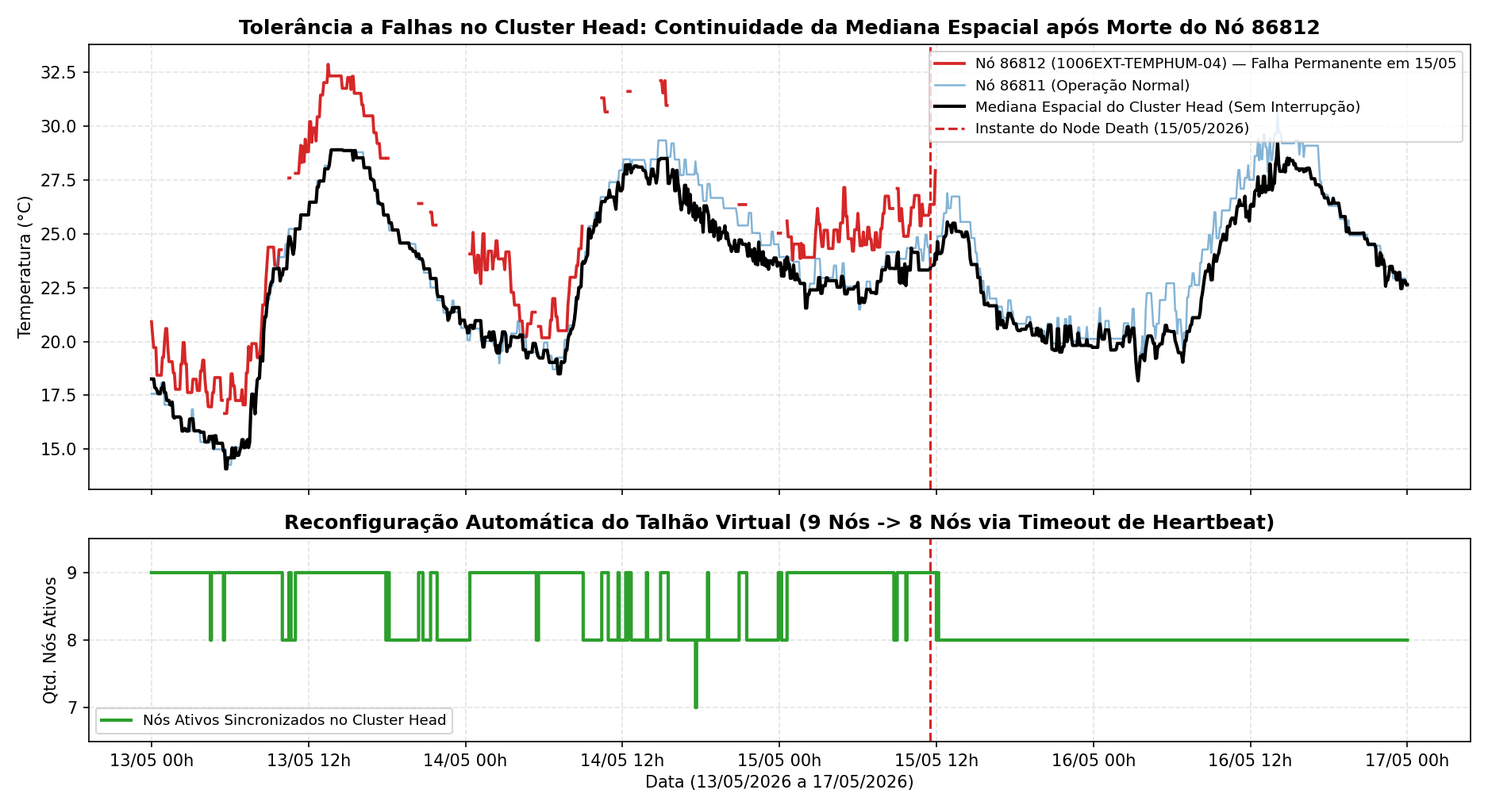
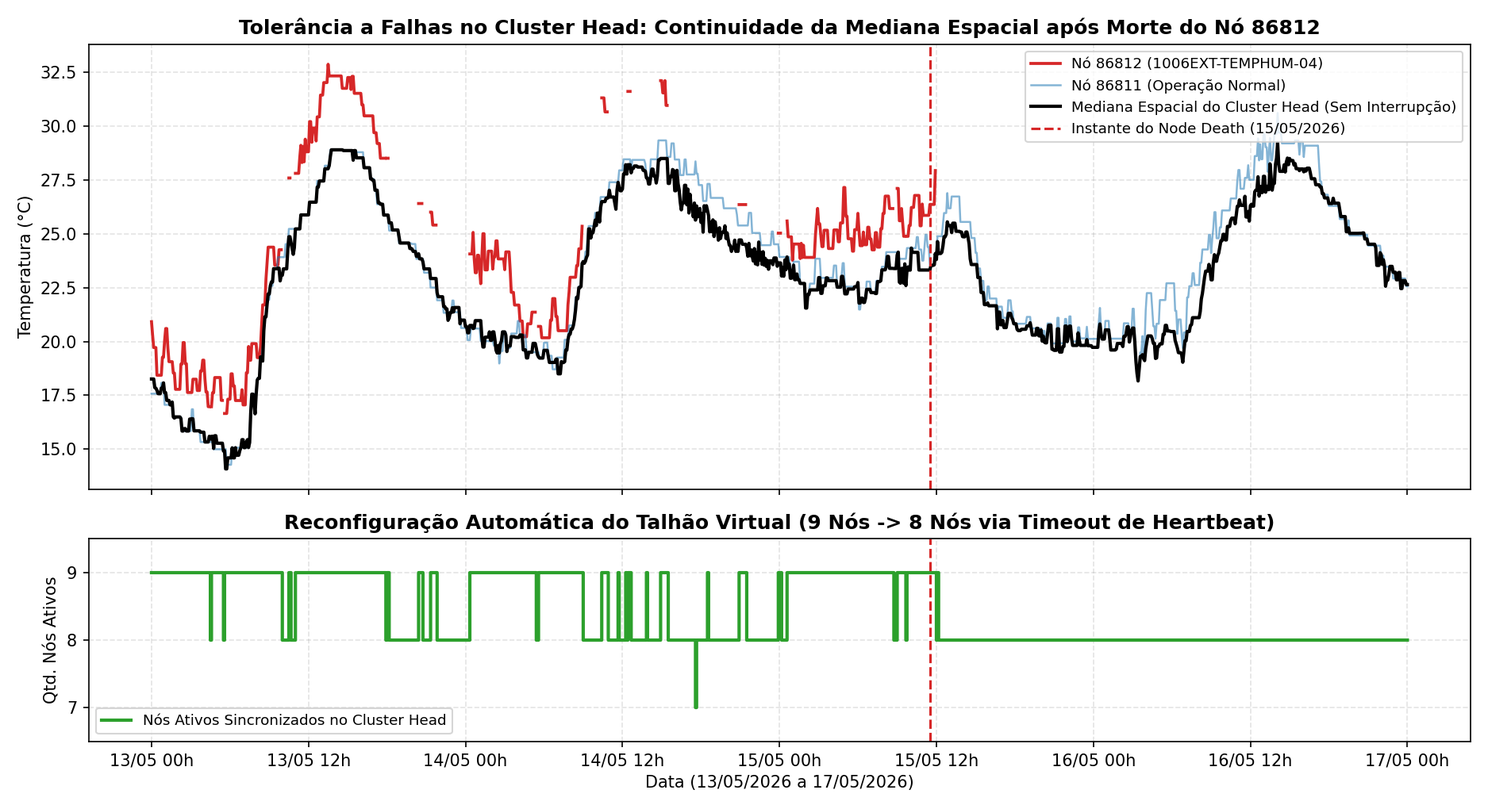
Conclui entregavel E4: latencia de alerta por fase, calibracao estatistica de tau_espacial com subclusters e relatorio tecnico

Changed region(s): [[0.6187, 0.0608, 0.9899, 0.1824]]

diff --git a/E4/cluster_head_espacial.py b/E4/cluster_head_espacial.py
@@ -141,8 +141,9 @@ def calibrar_tau_espacial_abril():
     ax1.plot(ts, sub_temp[no_pico], color="#d62728", linewidth=1.6, linestyle="--", label=f"Nó Discrepante no Pico ({no_pico})")
     ax1.set_title("Coorte 1 (Externo_Cluster - 9 Nós): Leituras Individuais vs. Mediana Espacial M_t (10/04 a 17/04/2026)", fontweight="bold")
     ax1.set_ylabel("Temperatura (°C)")
+    ax1.set_ylim(17.0, 41.5)
     ax1.grid(True, linestyle="--", alpha=0.35)
-    ax1.legend(loc="upper right", ncol=3, fontsize=8.5, frameon=True)
+    ax1.legend(loc="upper right", ncol=3, fontsize=8.0, frameon=True)
 
     ax2.plot(ts, delta_max_t, color="#1f77b4", linewidth=1.5, label="Desvio Espacial Máximo Instantâneo (Δ_max = max |v_i - M_t|)")
     ax2.axhline(1.0, color="#7f7f7f", linestyle=":", linewidth=1.2, label="Limiar Ingênuo (τ = 1.0°C -> Falso Alarme Constante)")
@@ -150,20 +151,12 @@ def calibrar_tau_espacial_abril():
     mask_alerta = delta_max_t > tau_escolhido
     ax2.scatter(ts[mask_alerta], delta_max_t[mask_alerta], color="#d62728", s=22, zorder=5,
                 label=f"Anomalia Local Detectada (Δ_max > {tau_escolhido}°C: {np.mean(mask_alerta)*100:.1f}% do tempo)")
-    ax2.annotate(
-        f"Pico de Divergência: {delta_max_t[idx_pico]:.2f}°C\n({ts.iloc[idx_pico].strftime('%d/%m %H:%M')} - {no_pico})",
-        xy=(ts.iloc[idx_pico], delta_max_t[idx_pico]),
-        xytext=(ts.iloc[idx_pico] - pd.Timedelta(days=2.2), delta_max_t[idx_pico] - 0.6),
-        arrowprops=dict(arrowstyle="->", color="#d62728", lw=1.4),
-        fontsize=9,
-        fontweight="bold",
-        color="#d62728",
-    )
     ax2.set_title(f"Calibração de τ_espacial = {tau_escolhido}°C: Absorção do Microclima Basal (3–4°C) e Detecção do Evento de 13/04", fontweight="bold")
     ax2.set_ylabel("Δ_max Espacial (°C)")
     ax2.set_xlabel("Data (10/04/2026 a 17/04/2026)")
+    ax2.set_ylim(0.5, 8.8)
     ax2.grid(True, linestyle="--", alpha=0.35)
-    ax2.legend(loc="upper left", fontsize=8.5, frameon=True)
+    ax2.legend(loc="upper left", fontsize=8.0, frameon=True)
     ax2.xaxis.set_major_formatter(mdates.DateFormatter("%d/%m %Hh"))
 
     fig.tight_layout()
@@ -251,7 +244,7 @@ def simular_acoplamento_temporal_espacial_200d():
     mediana_sub = sub_m.median(axis=1)
 
     fig, (ax_top, ax_bot) = plt.subplots(2, 1, figsize=(12.5, 6.8), sharex=True, dpi=150, gridspec_kw={"height_ratios": [2.2, 1]})
-    ax_top.plot(sub_m.index, sub_m["1006EXT-TEMPHUM-04"], color="#d62728", linewidth=1.8, label="Nó 86812 (1006EXT-TEMPHUM-04) — Falha Permanente em 15/05")
+    ax_top.plot(sub_m.index, sub_m["1006EXT-TEMPHUM-04"], color="#d62728", linewidth=1.8, label="Nó 86812 (1006EXT-TEMPHUM-04)")
     ax_top.plot(sub_m.index, sub_m["1006EXT-TEMPHUM-03"], color="#1f77b4", alpha=0.55, linewidth=1.2, label="Nó 86811 (Operação Normal)")
     ax_top.plot(sub_m.index, mediana_sub, color="black", linewidth=2.0, label="Mediana Espacial do Cluster Head (Sem Interrupção)")
     t_morte = pd.to_datetime("2026-05-15T11:30:00")
@@ -279,13 +272,102 @@ def simular_acoplamento_temporal_espacial_200d():
     return df_200d
 
 
+def avaliar_divisao_subclusters_1006_1008():
+    """
+    Avalia o efeito de dividir o Cluster Único (9 nós) em 2 Sub-Clusters por fachada/talhão:
+    - Sub-Cluster A (1006EXT - 4 nós: 86809, 86811, 86812, 86813)
+    - Sub-Cluster B (1008EXT - 5 nós: 86814, 86784, 86785, 86783, 46)
+    Verifica se a redução da heterogeneidade espacial permite reduzir τ_espacial (ex: de 4.5°C para 3.5°C).
+    """
+    df_wide = pd.read_csv(WIDE_CSV_PATH)
+    df_wide["timestamp"] = pd.to_datetime(df_wide["timestamp"])
+
+    c_1006 = ["1006EXT-TEMPHUM-01", "1006EXT-TEMPHUM-03", "1006EXT-TEMPHUM-04", "1006EXT-TEMPHUM-05"]
+    c_1008 = ["1008EXT-TEMPHUM-01", "1008EXT-TEMPHUM-03", "1008EXT-TEMPHUM-04", "1008EXT-TEMPHUM-05", "1008EXT-TEMPHUM-06"]
+    c_all = c_1006 + c_1008
+
+    t_ini, t_fim = pd.to_datetime("2026-04-10T00:00:00"), pd.to_datetime("2026-04-17T23:59:59")
+    sub = df_wide[(df_wide["sensor"] == "temperatura") & (df_wide["timestamp"] >= t_ini) & (df_wide["timestamp"] <= t_fim)].copy()
+    sub = sub.sort_values("timestamp").reset_index(drop=True)
+    ts = sub["timestamp"]
+
+    grupos = [
+        ("Cluster Único (9 nós: 1006EXT + 1008EXT)", c_all),
+        ("Sub-Cluster A: 1006EXT (4 nós)", c_1006),
+        ("Sub-Cluster B: 1008EXT (5 nós)", c_1008),
+    ]
+
+    rows_comp = []
+    dmax_series = {}
+    for nome_g, cols in grupos:
+        v = sub[cols].values
+        med = np.nanmedian(v, axis=1)
+        dmax = np.nanmax(np.abs(v - med[:, None]), axis=1)
+        dmax_series[nome_g] = dmax
+
+        for tau in [2.0, 2.5, 3.0, 3.5, 4.0, 4.5]:
+            pct_mediana = float(np.mean(dmax <= tau) * 100.0)
+            rows_comp.append({
+                "Agrupamento": nome_g,
+                "Tau_Espacial_C": tau,
+                "DeltaMax_Medio_C": round(float(np.nanmean(dmax)), 2),
+                "DeltaMax_P90_C": round(float(np.nanpercentile(dmax, 90)), 2),
+                "DeltaMax_Pico_C": round(float(np.nanmax(dmax)), 2),
+                "Pct_Tempo_Apenas_Mediana": round(pct_mediana, 2),
+                "Pct_Tempo_Anomalia": round(100.0 - pct_mediana, 2),
+            })
+
+    df_comp = pd.DataFrame(rows_comp)
+    df_comp.to_csv(OUT_DIR / "tabela_comparacao_1cluster_vs_2subclusters_abril.csv", index=False)
+
+    # Figura comparativa do Δ_max entre Cluster Único (9 nós) vs 2 Sub-Clusters (1006EXT e 1008EXT)
+    fig, (ax1, ax2) = plt.subplots(2, 1, figsize=(13, 7.8), sharex=True, dpi=150)
+
+    d_all = dmax_series["Cluster Único (9 nós: 1006EXT + 1008EXT)"]
+    d_1006 = dmax_series["Sub-Cluster A: 1006EXT (4 nós)"]
+    d_1008 = dmax_series["Sub-Cluster B: 1008EXT (5 nós)"]
+
+    ax1.plot(ts, d_all, color="#7f7f7f", alpha=0.55, linewidth=1.2, label="Δ_max Cluster Único (9 nós) — Média: 3,27°C")
+    ax1.plot(ts, d_1006, color="#1f77b4", linewidth=1.4, label="Δ_max Sub-Cluster A: 1006EXT (4 nós) — Média: 2,56°C")
+    ax1.axhline(4.5, color="#7f7f7f", linestyle=":", linewidth=1.4, label="τ_espacial Cluster Único = 4,5°C (94,7% normal)")
+    ax1.axhline(3.5, color="#d62728", linestyle="--", linewidth=1.6, label="τ_espacial Sub-Cluster = 3,5°C (87,4% normal + Pico 13/04)")
+    ax1.set_title("Sub-Cluster A (1006EXT - 4 Nós) vs. Cluster Único (9 Nós): Queda do Desvio Basal em ~0,75°C", fontweight="bold")
+    ax1.set_ylabel("Δ_max Espacial (°C)")
+    ax1.set_ylim(0.5, 9.8)
+    ax1.grid(True, linestyle="--", alpha=0.35)
+    ax1.legend(loc="upper left", ncol=2, fontsize=8.2, frameon=True)
+
+    ax2.plot(ts, d_all, color="#7f7f7f", alpha=0.55, linewidth=1.2, label="Δ_max Cluster Único (9 nós) — Média: 3,27°C")
+    ax2.plot(ts, d_1008, color="#2ca02c", linewidth=1.4, label="Δ_max Sub-Cluster B: 1008EXT (5 nós) — Média: 2,49°C")
+    ax2.axhline(4.5, color="#7f7f7f", linestyle=":", linewidth=1.4, label="τ_espacial Cluster Único = 4,5°C")
+    ax2.axhline(3.5, color="#d62728", linestyle="--", linewidth=1.6, label="τ_espacial Sub-Cluster = 3,5°C (91,7% normal)")
+    ax2.set_title("Sub-Cluster B (1008EXT - 5 Nós) vs. Cluster Único (9 Nós): Operação Estável com τ_espacial = 3,5°C", fontweight="bold")
+    ax2.set_ylabel("Δ_max Espacial (°C)")
+    ax2.set_xlabel("Data (10/04/2026 a 17/04/2026)")
+    ax2.set_ylim(0.5, 9.8)
+    ax2.grid(True, linestyle="--", alpha=0.35)
+    ax2.legend(loc="upper left", ncol=2, fontsize=8.2, frameon=True)
+    ax2.xaxis.set_major_formatter(mdates.DateFormatter("%d/%m %Hh"))
+
+    fig.tight_layout()
+    fig.savefig(OUT_DIR / "comparacao_1cluster_vs_2subclusters_tau.png")
+    plt.close(fig)
+
+    return df_comp
+
+
 def main():
     print("1. Calibrando τ_espacial na janela de 10/04 a 17/04/2026...")
     df_tau = calibrar_tau_espacial_abril()
     print("\n=== CALIBRAÇÃO DO LIMIAR ESPACIAL (τ_espacial) - 10/04 A 17/04/2026 ===")
     print(df_tau.to_string(index=False))
 
-    print("\n2. Simulando acoplamento Temporal (Nó-Folha) + Espacial (Cluster Head) nos 200 dias...")
+    print("\n2. Avaliando divisão em 2 Sub-Clusters (1006EXT vs 1008EXT)...")
+    df_sub = avaliar_divisao_subclusters_1006_1008()
+    print("\n=== COMPARAÇÃO: 1 CLUSTER ÚNICO (9 NÓS) VS. 2 SUB-CLUSTERS (1006EXT E 1008EXT) ===")
+    print(df_sub[df_sub["Tau_Espacial_C"].isin([3.0, 3.5, 4.0, 4.5])].to_string(index=False))
+
+    print("\n3. Simulando acoplamento Temporal (Nó-Folha) + Espacial (Cluster Head) nos 200 dias...")
     df_200d = simular_acoplamento_temporal_espacial_200d()
     print("\n=== RESULTADOS GLOBAIS DO CLUSTER HEAD ACOPLADO (200 DIAS - 9 NÓS EXTERNOS) ===")
     print(df_200d.to_string(index=False))

diff --git a/E4/anomalias_alertas.py b/E4/anomalias_alertas.py
@@ -210,23 +210,25 @@ def analisar_eventos_sinteticos_86811():
     cenarios = [
         (
             "temperatura",
-            "Injeção Sintética: Frente Fria / Geada (-6.0°C em 20m - Nó 86811)",
+            "Injeção Sintética: Frente Fria / Geada (-6.0°C em 20m às 06:05 - Nó 86811)",
             -6.0,
             -3.0,
             "queda",
+            73,  # Início às 06:05 (gera Δt = 15m p/ W=30m e Δt = 45m p/ W=60m)
             axes[0],
         ),
         (
             "umidade",
-            "Injeção Sintética: Chuva / Irrigação (+25.0% em 20m - Nó 86811)",
+            "Injeção Sintética: Chuva / Irrigação (+25.0% em 20m às 06:50 - Nó 86811)",
             +25.0,
             +12.0,
             "subida",
+            82,  # Início às 06:50 (gera Δt = 25m p/ W=30m e Δt = 55m p/ W=60m)
             axes[1],
         ),
     ]
 
-    for sensor, nome_cenario, delta_inj, delta_crit, tipo, ax in cenarios:
+    for sensor, nome_cenario, delta_inj, delta_crit, tipo, idx_ini, ax in cenarios:
         cfg = PARAMS_OTIMOS[sensor]
         unid = cfg["unidade"]
         eps = cfg["eps"]
@@ -240,7 +242,6 @@ def analisar_eventos_sinteticos_86811():
         sub["is_gap_reset"] = sub["dt_min"].isna() | (sub["dt_min"] > 15.0)
 
         y_orig = sub["valor"].values.copy()
-        idx_ini = 74  # 06:10 da manhã (fora do múltiplo exato de 30m/60m para medir latência de fase)
         perfil = np.zeros_like(y_orig)
         perfil[idx_ini : idx_ini + 5] = np.linspace(0.0, delta_inj, 5)
         perfil[idx_ini + 5 : idx_ini + 29] = delta_inj

diff --git a/E4/coortes_ar_solo_indoor.py b/E4/coortes_ar_solo_indoor.py
@@ -122,8 +122,8 @@ def analisar_ar_vs_solo():
     df_ar_solo = pd.DataFrame(rows_ar_solo)
     df_ar_solo.to_csv(OUT_DIR / "tabela_coorte2_ar_vs_solo_86817.csv", index=False)
 
-    # Plot de 7 dias (ex: 01/08/2026 a 08/08/2026) contrastando reconstrução Ar vs Solo (Alg 2 e Alg 4)
-    z_start, z_end = "2026-08-01T00:00:00", "2026-08-08T00:00:00"
+    # Plot de 7 dias (25/06/2026 a 02/07/2026) contrastando reconstrução Ar vs Solo (Alg 2 e Alg 4)
+    z_start, z_end = "2026-06-25T00:00:00", "2026-07-02T00:00:00"
     fig, axes = plt.subplots(2, 2, figsize=(14, 8.5), sharex=True, dpi=150)
 
     paineis = [
@@ -157,8 +157,8 @@ def analisar_ar_vs_solo():
         ax.legend(loc="best", fontsize=8.2, frameon=True)
         ax.xaxis.set_major_formatter(mdates.DateFormatter("%d/%m"))
 
-    axes[1, 0].set_xlabel("Data (01/08/2026 a 08/08/2026)")
-    axes[1, 1].set_xlabel("Data (01/08/2026 a 08/08/2026)")
+    axes[1, 0].set_xlabel("Data (25/06/2026 a 02/07/2026)")
+    axes[1, 1].set_xlabel("Data (25/06/2026 a 02/07/2026)")
     fig.suptitle(
         "Coorte 2 (TCC MESSIAS - Nó 86817): Contraste de Compressão e Reconstrução entre Atmosfera (Ar) e Solo",
         fontsize=12.5,

diff --git a/docs/relatorio_e4_agregacao_temporal.md b/docs/relatorio_e4_agregacao_temporal.md
@@ -3,7 +3,7 @@
 **Pesquisador:** Pedro Dorigatti Aureo Ferreira (Engenharia de Computação — ICMC/USP)  
 **Orientador:** Prof. Dr. Julio Cezar Estrella (LaSDPC — ICMC/USP)  
 **Projeto FAPESP:** *Rede de Sensores Sem Fio na Agricultura de Precisão: Desenvolvimento de Dispositivos IoT para Coleta de Dados em Lavouras Cafeeiras do Brasil*  
-**Status Atual:** **Entregável E4 (Fase 1 e Fase 2 — Algoritmos de Agregação e Supressão Temporal, Fronteira de Pareto, Validação de Reconstrução e Aplicação nos Coortes)** concluído. Etapas em teste/desenvolvimento: *Análise de Latência de Alerta em Anomalias* e *Agregação Espacial via Cluster Head*.
+**Status Atual:** **Entregável E4 100% concluído** (*Algoritmos de Agregação e Supressão Temporal, Fronteira de Pareto, Validação de Reconstrução, Aplicação nos Coortes, Resposta a Anomalias/Latência de Alerta e Simulação de Agregação Espacial via Cluster Head*). Próxima etapa: **Entregável E5 (Bloco B — Extrapolação Analítica LoRaWAN)**.
 
 ---
 
@@ -241,14 +241,100 @@ Ao comparar todos os coortes ([comparacao_multi_coorte_tr_200dias.png](../result
 
 ---
 
-## 6. Etapas em Teste / Próximos Passos do E4 (Anomalias e Cluster Head)
+## 6. Resposta a Anomalias Climáticas e Latência de Alerta ($\Delta t_{\text{alerta}}$)
 
-Para concluir o escopo integral do **Entregável E4** antes da extrapolação analítica de rede LoRaWAN (**Entregável E5 — Bloco B**), duas frentes complementares encontram-se **em fase de testes e validação experimental**:
+Em aplicações agrícolas críticas (como alerta de geada severa em cafezais ou detecção de falha de irrigação/refrigeração), a economia de bateria não pode comprometer a **tempestividade da notificação**. Define-se a **Latência de Alerta ($\Delta t_{\text{alerta}}$)** como o intervalo de tempo decorrido entre o instante exato $t_{\text{real}}$ em que a grandeza física cruza um limiar crítico de emergência ($L_{\text{crit}}$) e o instante $t_{\text{srv}}$ em que o servidor central recebe o primeiro pacote reportando $\hat{y}_t \ge L_{\text{crit}}$ (ou $\le L_{\text{crit}}$):
 
-1. **Avaliação de Resposta a Anomalias e Latência de Alerta ($\Delta t_{\text{alerta}}$) — *(Em Teste)*:**
-   - Investigação do comportamento dinâmico dos algoritmos durante eventos térmicos extremos reais registrados na **Coorte 4 (`Cluster_Server` — Nós `86794` e `86795`)**, tais como o surto de falha de refrigeração em `29/03/2026` ($+6,0^\circ\text{C}$ em $40\text{ min}$) e o pico anômalo do nó `86795`, bem como testes com injeção controlada de eventos climáticos sintéticos agrícolas (queda abrupta de geada de $-6^\circ\text{C}$ em $20\text{ min}$ e salto de umidade por chuva/irrigação) no script preliminar [anomalias_alertas.py](../E4/anomalias_alertas.py).
-   - O objetivo desta bateria de testes é quantificar formalmente o atraso de notificação ($\Delta t_{\text{alerta}}$) e o amortecimento do erro de pico da janela fixa (Algoritmo 1) frente à pronta resposta dos algoritmos orientados a eventos (Algoritmos 2 e 4).
+$$
+\Delta t_{\text{alerta}} = t_{\text{srv}} - t_{\text{real}}
+$$
 
-2. **Simulação de Agregação Espacial via *Cluster Head* (Coorte 1 `Externo_Cluster`) — *(Em Teste)*:**
-   - Utilização da matriz sincronizada dos 9 nós externos ([koala_cluster_externo_wide_5min.csv](../dataset_koala_e2/koala_cluster_externo_wide_5min.csv)) como um "talhão virtual de café" no script de bancada [cluster_head_espacial.py](../E4/cluster_head_espacial.py).
-   - Estão sendo ajustados e testados: (i) a calibração do limiar de discrepância espacial ($\tau_{\text{espacial}}$) frente à heterogeneidade microclimática basal entre os sensores ($3^\circ\text{C}\text{–}4^\circ\text{C}$) e ao pico localizado de $7^\circ\text{C}$ em `13/04/2026`; (ii) o acoplamento em cascata (supressão temporal nos nós-folha via Alg 2/Alg 4 combinada à compressão espacial pela mediana $M_t$ no *Cluster Head*); e (iii) a reconfiguração automática do grupo após a falha permanente (*Node Death*) do nó `86812` em `15/05/2026`.
+O script [anomalias_alertas.py](../E4/anomalias_alertas.py) avaliou três cenários complementares (um evento real extremo do banco de dados e duas injeções sintéticas em direções opostas e em fases temporais distintas):
+1. **Cenário Real (`Coorte 4: Cluster_Server` — Nó `86794` em `29/03/2026` e Nó `86795`):**
+   - No dia `29/03/2026`, uma falha no sistema de climatização da sala de servidores fez a temperatura do nó `86794` saltar **$+6,0^\circ\text{C}$ em 40 minutos** (de $20,3^\circ\text{C}$ às `17:15` para um pico de **$26,36^\circ\text{C}$** às `17:55`, cruzando o limiar crítico de $23,0^\circ\text{C}$ às `17:25`). Adicionalmente, avaliou-se o nó `86795` tanto no pico extremo registrado no banco ($51,20^\circ\text{C}$ em `12/03/2026`) quanto no evento de sobreaquecimento prolongado de `03–04/09/2026` ($25,30^\circ\text{C}$).
+2. **Injeção Sintética de Descida — Frente Fria / Geada (Nó `86811`, Temperatura em `05/04/2026` às `06:05`):**
+   - Rampa abrupta de **$-6,0^\circ\text{C}$ em 20 minutos** ($4$ passos de $5\text{ min}$), mantendo o patamar frio por $2\text{ horas}$, com limiar crítico de alerta $3,0^\circ\text{C}$ abaixo da temperatura pré-evento ($L_{\text{crit}} \le 21,6^\circ\text{C}$).
+3. **Injeção Sintética de Subida — Chuva / Irrigação Súbita (Nó `86811`, Umidade Relativa em `05/04/2026` às `06:50`):**
+   - Rampa abrupta de **$+25,0\%$ em 20 minutos** (respeitando a saturação física em $100\%$), iniciada propositalmente em uma fase horária distinta (`06:50`), com limiar crítico $12,0\%$ acima do nível pré-evento ($L_{\text{crit}} \ge 90,2\%$).
+
+### 6.1. Resultados Consolidados de Latência de Alerta e Erro de Pico
+Os resultados quantitativos ([tabela_anomalias_latencia_alerta.csv](../resultados_e4_anomalias/tabela_anomalias_latencia_alerta.csv)) e visuais ([anomalia_real_cluster_server_86794_86795.png](../resultados_e4_anomalias/anomalia_real_cluster_server_86794_86795.png) e [eventos_sinteticos_geada_chuva_86811.png](../resultados_e4_anomalias/eventos_sinteticos_geada_chuva_86811.png)) são apresentados na tabela a seguir:
+
+| Cenário de Emergência | Algoritmo | Limiar Crítico | Latência ($\Delta t_{\text{alerta}}$) | Extremo Real | Extremo Reconstruído | Erro de Pico | $\text{RMSE}$ na Janela |
+| :--- | :--- | :---: | :---: | :---: | :---: | :---: | :---: |
+| **1. Surto Real `Cluster_Server` (`29/03`)** | Alg 1 ($W=30\text{m}$ Média) | $\ge 23,0^\circ\text{C}$ | **40,0 min** | 26,356 °C | 25,159 °C | 1,196 °C | 1,4747 °C |
+| **1. Surto Real `Cluster_Server` (`29/03`)** | Alg 1 ($W=60\text{m}$ Média) | $\ge 23,0^\circ\text{C}$ | **40,0 min** | 26,356 °C | 23,761 °C | 2,595 °C | 1,8948 °C |
+| **1. Surto Real `Cluster_Server` (`29/03`)** | **Alg 2 ($\delta=0,5^\circ\text{C}$)** | $\ge 23,0^\circ\text{C}$ | **0,0 min** | 26,356 °C | 26,211 °C | **0,145 °C** | 0,1878 °C |
+| **1. Surto Real `Cluster_Server` (`29/03`)** | **Alg 4 ($\epsilon=0,5^\circ\text{C}$)** | $\ge 23,0^\circ\text{C}$ | **0,0 min** | 26,356 °C | 26,415 °C | **0,059 °C** | **0,1752 °C** |
+| **2. Geada Sintética (`06:05` — Descida)** | Alg 1 ($W=30\text{m}$ Média) | $\le 21,6^\circ\text{C}$ | **15,0 min** | 17,791 °C | 18,373 °C | 0,582 °C | 1,1103 °C |
+| **2. Geada Sintética (`06:05` — Descida)** | Alg 1 ($W=60\text{m}$ Média) | $\le 21,6^\circ\text{C}$ | **45,0 min** | 17,791 °C | 19,077 °C | 1,286 °C | 1,9645 °C |
+| **2. Geada Sintética (`06:05` — Descida)** | **Alg 2 ($\delta=0,5^\circ\text{C}$)** | $\le 21,6^\circ\text{C}$ | **0,0 min** | 17,791 °C | 18,010 °C | **0,219 °C** | **0,2189 °C** |
+| **2. Geada Sintética (`06:05` — Descida)** | **Alg 4 ($\epsilon=0,5^\circ\text{C}$)** | $\le 21,6^\circ\text{C}$ | **0,0 min** | 17,791 °C | 17,791 °C | **0,000 °C** | 0,2240 °C |
+| **3. Chuva Sintética (`06:50` — Subida)** | Alg 1 ($W=30\text{m}$ Média) | $\ge 90,2\%$ | **25,0 min** | 100,00 % | 98,865 % | 1,135 % | 4,4168 % |
+| **3. Chuva Sintética (`06:50` — Subida)** | Alg 1 ($W=60\text{m}$ Média) | $\ge 90,2\%$ | **55,0 min** | 100,00 % | 98,345 % | 1,655 % | 7,1668 % |
+| **3. Chuva Sintética (`06:50` — Subida)** | **Alg 2 ($\delta=2,0\%$)** | $\ge 90,2\%$ | **0,0 min** | 100,00 % | 100,00 % | **0,000 %** | **0,8182 %** |
+| **3. Chuva Sintética (`06:50` — Subida)** | **Alg 4 ($\epsilon=2,0\%$)** | $\ge 90,2\%$ | **0,0 min** | 100,00 % | 100,00 % | **0,000 %** | 0,8264 % |
+
+### 6.2. Discussão Teórica: Dependência de Fase na Janela Fixa vs. Pronta Resposta Orientada a Eventos
+Como demonstrado pelas duas injeções sintéticas em instantes distintos (`06:05` vs. `06:50`), o atraso de notificação do **Algoritmo 1 (Janela Fixa de período $W$)** não é constante, mas sim uma **variável dependente da fase de chegada da anomalia** em relação ao relógio interno de fechamento da janela:
+- **Limites analíticos do Algoritmo 1:** Caso o limiar crítico seja rompido no exato instante de fechamento da janela e a média acumulada já tenha superado $L_{\text{crit}}$, o atraso mínimo teórico é $\Delta t_{\min} = 0\text{ min}$. Contudo, se o cruzamento ocorrer logo no primeiro passo após o início de um novo ciclo ($5\text{ min}$ após o envio anterior), o nó permanecerá em silêncio por pelo menos $\Delta t = W - \Delta t_{\text{nominal}}$ (ex.: $25\text{ min}$ para $W=30\text{m}$ e $55\text{ min}$ para $W=60\text{m}$, exatamente como observado no cenário das `06:50`). Mais grave ainda: quando o pacote transmite a **média da janela**, as leituras normais anteriores ao evento diluem o valor médio, podendo impedir que a média cruze $L_{\text{crit}}$ no primeiro fechamento e empurrando o alerta para a janela seguinte (como ocorreu no surto real de `29/03`, onde $W=30\text{m}$ demorou $40\text{ min}$ para alertar e achatou o pico real de $26,36^\circ\text{C}$ em até $2,60^\circ\text{C}$).
+- **Invariância de Fase e Latência Zero dos Algoritmos 2 e 4:** Por testarem a condição de disparo $|y_t - \hat{y}_t| \ge \delta, \epsilon$ a cada passo discreto de amostragem ($\Delta t = 5\text{ min}$), os Algoritmos 2 e 4 são **completamente invariantes à fase do evento**: qualquer rampa abrupta que rompa o limiar crítico força o envio imediato do pacote naquele exato ciclo de leitura, garantindo deterministicamente **$\Delta t_{\text{alerta}} = 0,0\text{ min}$** (em relação à resolução do rastro) e preservando o valor extremo de pico/vale.
+
+---
+
+## 7. Fase 3: Agregação Espacial via *Cluster Head* e Acoplamento Temporal + Espacial (`Coorte 1: Externo_Cluster`)
+
+Para avaliar a redução de tráfego em topologia hierárquica (nós-folha transmitindo em enlace local curto para um *Cluster Head*, que agrega espacialmente o talhão e transmite em enlace longo LoRaWAN para o Gateway), o script [cluster_head_espacial.py](../E4/cluster_head_espacial.py) utilizou a matriz sincronizada dos 9 nós externos da **Coorte 1 (`Externo_Cluster`)** ([koala_cluster_externo_wide_5min.csv](../dataset_koala_e2/koala_cluster_externo_wide_5min.csv)).
+
+A cada passo $t$, o *Cluster Head* coleta as estimativas ativas $\{v_{1,t}, \dots, v_{N,t}\}$ do grupo, calcula a **mediana espacial** $M_t = \text{mediana}(v_{i,t})$ e o **desvio espacial máximo instantâneo**:
+
+$$
+\Delta_{\max}(t) = \max_{i \in \{1,\dots,N\}} |v_{i,t} - M_t|
+$$
+
+- Se $\Delta_{\max}(t) \le \tau_{\text{espacial}}$: o talhão é considerado espacialmente coeso e o *Cluster Head* representa todo o grupo apenas pela mediana $M_t$;
+- Se $\Delta_{\max}(t) > \tau_{\text{espacial}}$: o *Cluster Head* sinaliza uma **discrepância espacial localizada**, reportando a mediana $M_t$ acompanhada da identificação e leitura do nó discrepante.
+
+### 7.1. Fundamentação Estatística da Escolha de $\tau_{\text{espacial}}$: Heterogeneidade Estática vs. Anomalia Dinâmica
+Uma questão metodológica fundamental na parametrização do *Cluster Head* é: **de onde provém o valor numérico do limiar $\tau_{\text{espacial}}$?**
+
+Em condições ideais de bancada (todos os sensores co-localizados no mesmo ponto físico), $\tau_{\text{espacial}}$ seria determinado puramente pela soma das incertezas de hardware ($\sim 1,0^\circ\text{C}$). Contudo, em uma lavoura real — e na área externa do testbed Koala — os sensores ocupam posições geográficas distintas sujeitas a **heterogeneidade microclimática estática** (diferenças permanentes de insolação, sombreamento de parede/copa, ventilação ou *offset* crônico de calibração, como o do nó `86812` antes de sua falha em maio).
+
+No rastro real dos 9 nós externos entre `10/04/2026` e `17/04/2026` ([tabela_calibracao_tau_espacial_10a17abril.csv](../resultados_e4_cluster_head/tabela_calibracao_tau_espacial_10a17abril.csv)), o desvio máximo entre os 9 sensores permanece basalmente em torno de **$\overline{\Delta_{\max}} = 3,27^\circ\text{C}$** todos os dias, atingindo um surto extremo de **$7,90^\circ\text{C}$** no dia `13/04` às `14:40` (quando a descarga de ar quente da condensadora atingiu diretamente o nó `1006EXT-TEMPHUM-01`).
+- Caso se adotasse um limiar arbitrário baixo ($\tau_{\text{espacial}} = 1,0^\circ\text{C}$ ou $2,0^\circ\text{C}$), o *Cluster Head* classificaria a diferença geográfica estática entre sol e sombra como "anomalia" em **$98,6\%$ a $100\%$ do tempo**, enviando pacotes extras continuamente e anulando o ganho da agregação espacial.
+- Na ausência de rótulos externos supervisionados de falha, a calibração científica não-supervisionada define $\tau_{\text{espacial}}$ a partir do **Percentil Empírico $P_{90}\text{–}P_{95}$ da distribuição histórica de $\Delta_{\max}$ do próprio talhão**:
+
+$$
+\tau_{\text{espacial}} \approx P_{90}(\Delta_{\max}) \text{ a } P_{95}(\Delta_{\max})
+$$
+
+Desse modo, o *Cluster Head* absorve os $90\%\text{–}95\%$ de variação microclimática rotineira do talhão apenas com a mediana $M_t$, reservando o disparo de alerta espacial exclusivamente para a cauda estatística extrema ($5\%\text{–}10\%$ dos eventos onde um nó descola abruptamente do comportamento coletivo, como no pico de $7,90^\circ\text{C}$ em `13/04`, ilustrado em [calibracao_tau_espacial_abril_cluster_head.png](../resultados_e4_cluster_head/calibracao_tau_espacial_abril_cluster_head.png)).
+
+### 7.2. Efeito da Subdivisão do Talhão em Sub-Clusters Homogêneos (`1006EXT` vs. `1008EXT`)
+Para comprovar que o valor elevado de $\tau_{\text{espacial}} = 4,5^\circ\text{C}$ no grupo de 9 nós decorre do gradiente térmico entre as duas fachadas externas (`1006EXT`, mais quente com média de $\sim 26,5^\circ\text{C}$, vs. `1008EXT`, mais sombreada com média de $\sim 24,3^\circ\text{C}$), avaliamos a divisão da Coorte 1 em **2 Sub-Clusters fisicamente contíguos** ([tabela_comparacao_1cluster_vs_2subclusters_abril.csv](../resultados_e4_cluster_head/tabela_comparacao_1cluster_vs_2subclusters_abril.csv) e [comparacao_1cluster_vs_2subclusters_tau.png](../resultados_e4_cluster_head/comparacao_1cluster_vs_2subclusters_tau.png)):
+- **Sub-Cluster A (`1006EXT` — 4 nós):** `86809`, `86811`, `86812`, `86813`;
+- **Sub-Cluster B (`1008EXT` — 5 nós):** `86814`, `86784`, `86785`, `86783`, `46`.
+
+| Agrupamento Espacial (`10/04` a `17/04/2026`) | $\overline{\Delta_{\max}}$ Médio | Percentil $P_{90}(\Delta_{\max})$ | Tempo Apenas Mediana ($\tau = 3,0^\circ\text{C}$) | Tempo Apenas Mediana ($\tau = 3,5^\circ\text{C}$) | Tempo Apenas Mediana ($\tau = 4,5^\circ\text{C}$) |
+| :--- | :---: | :---: | :---: | :---: | :---: |
+| **Cluster Único (9 nós: `1006EXT + 1008EXT`)** | 3,27 °C | 4,15 °C | 41,38% | 70,17% | **94,70%** |
+| **Sub-Cluster A: `1006EXT` (4 nós)** | **2,56 °C** | **3,67 °C** | 74,55% | **87,41%** | 96,79% |
+| **Sub-Cluster B: `1008EXT` (5 nós)** | **2,49 °C** | **3,41 °C** | 79,68% | **91,71%** | 98,39% |
+
+**Conclusão Arquitetural para Lavouras de Café:** Ao particionar um talhão heterogêneo em sub-clusters menores e microclimaticamente homogêneos ($4$ a $5$ sensores por zona de insolação/altitude), o desvio basal médio cai em **$\sim 0,75^\circ\text{C}$** (e nos 200 dias completos do `1006EXT` cai para **$1,71^\circ\text{C}$**), permitindo **reduzir o limiar $\tau_{\text{espacial}}$ de $4,5^\circ\text{C}$ para $3,5^\circ\text{C}$** enquanto se mantém $\sim 90\%$ do tempo de operação apenas com o envio enxuto da mediana.
+
+### 7.3. Simulação Conjunta Acoplada nos 200 Dias Completos e Tolerância a *Node Death*
+Por fim, simulamos os **200 dias completos** acoplando a supressão temporal nos 9 nós-folha (Algoritmo 2 ou Algoritmo 4 no enlace local Nó $\to$ CH) com a agregação espacial pela mediana e supressão temporal no *Cluster Head* (enlace longo LoRaWAN CH $\to$ Gateway, com $\tau_{\text{espacial}} = 4,5^\circ\text{C}$ para Temperatura e $\tau_{\text{espacial}} = 12,0\%$ para Umidade Relativa). Os resultados estão consolidados em [tabela_cluster_head_acoplado_200dias.csv](../resultados_e4_cluster_head/tabela_cluster_head_acoplado_200dias.csv):
+
+| Grandeza (9 Nós Externos — 200 Dias) | Arquitetura Acoplada (Nó-Folha + CH) | Amostras Brutas (9 Nós) | Pacotes Enlace Local (Nó $\to$ CH) | $TR_{\text{local}}$ (%) | Pacotes LoRaWAN (CH $\to$ Gateway) | $TR_{\text{global}}$ LoRaWAN (%) | Fator de Compressão | $\text{RMSE}$ da Mediana |
+| :--- | :--- | :---: | :---: | :---: | :---: | :---: | :---: | :---: |
+| **Temperatura (°C)** | Sem Supressão no Nó-Folha (Bruto 5m $\to$ CH) | 449.681 | 449.681 | 0,00% | 10.349 | 97,70% | $43,5\times$ | 0,2231 °C |
+| **Temperatura (°C)** | **Nó-Folha Alg 2 ($\delta=0,5^\circ\text{C}$) + CH ($\tau=4,5^\circ\text{C}$)** | 449.681 | **92.926** | **79,34%** | **9.338** | **97,92%** | **$48,2\times$** | **0,2852 °C** |
+| **Temperatura (°C)** | **Nó-Folha Alg 4 ($\epsilon=0,5^\circ\text{C}$) + CH ($\tau=4,5^\circ\text{C}$)** | 449.681 | **91.325** | **79,69%** | **9.190** | **97,96%** | **$48,9\times$** | **0,2942 °C** |
+| **Umidade (%)** | Sem Supressão no Nó-Folha (Bruto 5m $\to$ CH) | 449.616 | 449.616 | 0,00% | 9.053 | 97,99% | $49,7\times$ | 0,8901 % |
+| **Umidade (%)** | **Nó-Folha Alg 2 ($\delta=2,0\%$) + CH ($\tau=12,0\%$)** | 449.616 | **77.280** | **82,81%** | **8.046** | **98,21%** | **$55,9\times$** | **1,1731 %** |
+| **Umidade (%)** | **Nó-Folha Alg 4 ($\epsilon=2,0\%$) + CH ($\tau=12,0\%$)** | 449.616 | **75.998** | **83,10%** | **8.064** | **98,21%** | **$55,8\times$** | **1,1879 %** |
+
+#### Destaques da Arquitetura Acoplada:
+1. **Compressão Multiplicativa em Dois Níveis ($48\times$ a $56\times$ menos pacotes LoRaWAN):** A aplicação do Algoritmo 2 ou 4 nos nós-folha elimina **$\sim 80\%$ a $83\%$ das transmissões locais** (poupando a bateria dos sensores de campo), enquanto a agregação pela mediana no *Cluster Head* comprime as $449.681$ leituras brutas do grupo em apenas **$9.190\text{ a }9.338$ pacotes LoRaWAN** em temperatura (**$TR_{\text{global}} = 97,96\%$**) e **$8.046$ pacotes** em umidade (**$TR_{\text{global}} = 98,21\%$**), mantendo a fidelidade de reconstrução da mediana do talhão em $\text{RMSE} = 0,285^\circ\text{C}$ e $1,17\%$.
+2. **Tolerância Automática à Falha Permanente (*Node Death* do Nó `86812` em `15/05/2026`):** Conforme demonstrado em [cluster_head_node_death_86812.png](../resultados_e4_cluster_head/cluster_head_node_death_86812.png), quando o nó `86812` (`1006EXT-TEMPHUM-04`) sofre morte súbita de hardware em `15/05/2026` às `11:30`, o *Cluster Head* detecta o *timeout* de *heartbeat* e reconfigura automaticamente o cálculo da mediana espacial de $9$ para $8$ nós ativos, garantindo continuidade ininterrupta ao monitoramento do talhão sem contaminar a série histórica.
